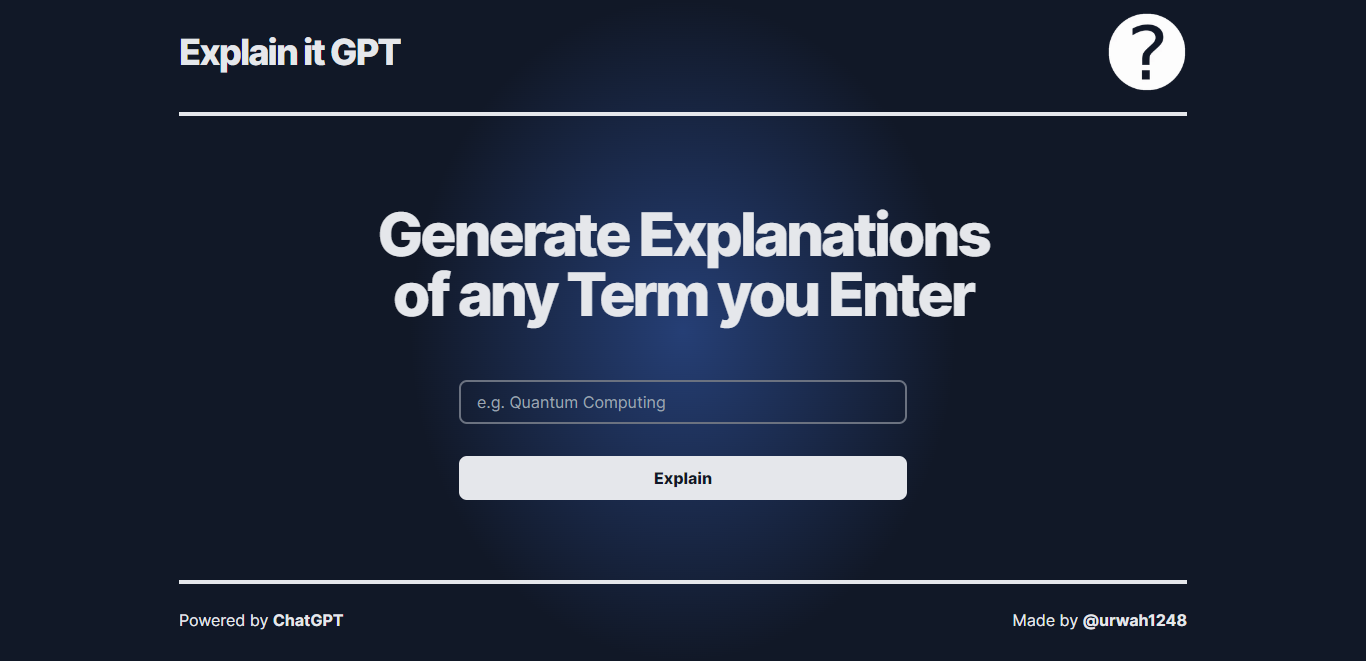
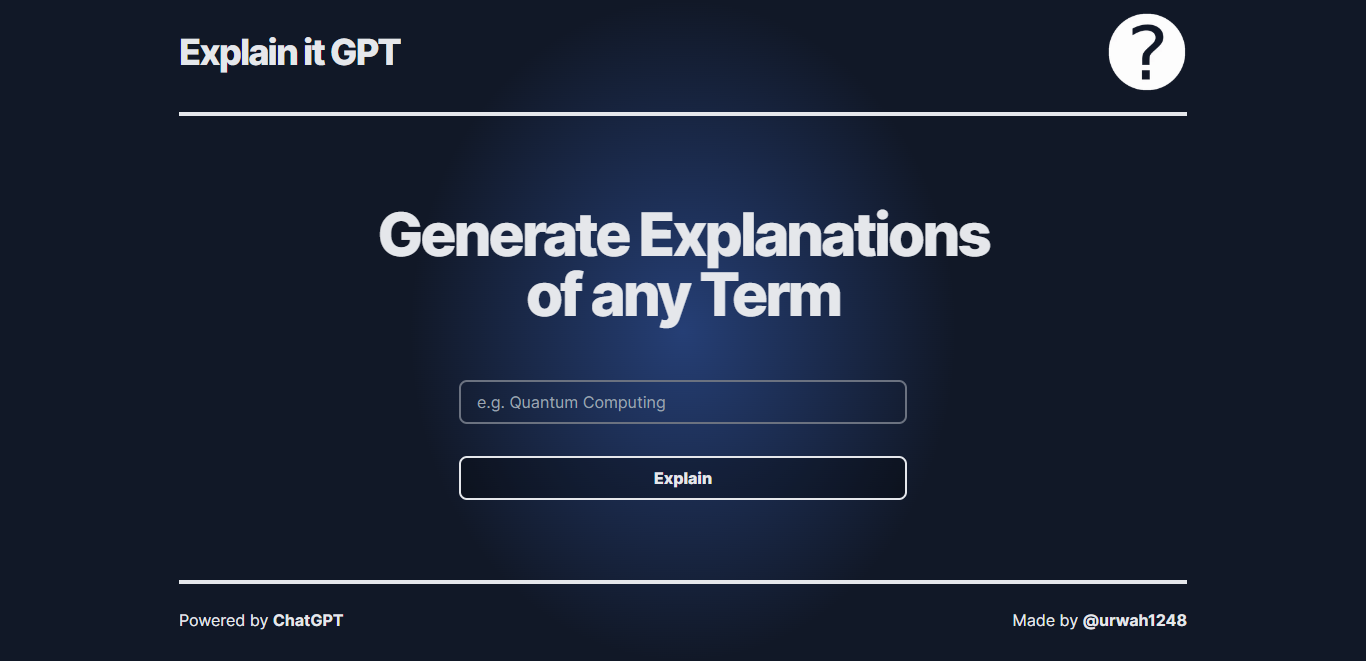
Updated Description

Changed region(s): [[0.2767, 0.3933, 0.7379, 0.5144], [0.3382, 0.6959, 0.6764, 0.7564]]

diff --git a/app/page.tsx b/app/page.tsx
@@ -10,7 +10,7 @@ export default function Home() {
       <h1 className='mx-auto tracking-tighter text-3xl md:text-6xl 
       font-extrabold text-center my-4 md:w-[630px]
       '>
-        Generate Explanations of any Term you Enter
+        Generate Explanations of any Term
       </h1>
       <Form resultRef={resultRef}/>
     </main> 
